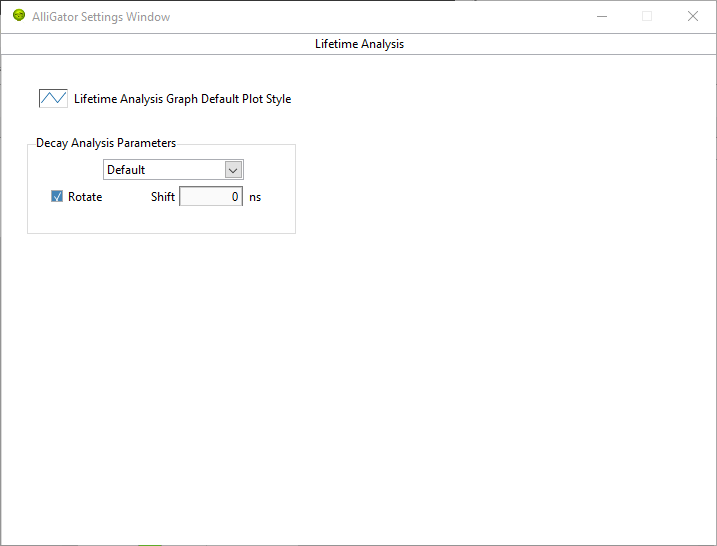
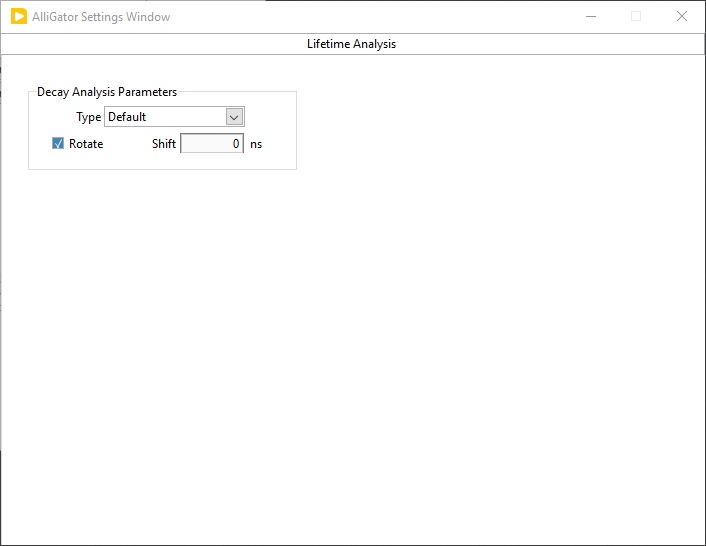
Docs update

diff --git a/docs/source/alligator-decay-fitting.rst b/docs/source/alligator-decay-fitting.rst
@@ -13,7 +13,7 @@ of fluorescence decay fitting:
   being output as maps (see :ref:`alligator-decay-fit-parameters-map-panel`)
 * Series analysis of a ROI in the image source can be done one ROI at a 
   time (the same ROI is used throughout the series), or a list of ROIs can be 
-  used, in dataset in the series using one of the ROI in the list (in the order 
+  used, one dataset in the series using one of the ROI in the list (in the order 
   they appear in the list). In both cases, selected parameters are output as 
   individual plots (one plot per parameter, one point per dataset).
 
@@ -34,7 +34,7 @@ section in the :ref:`alligator-decay-preprocessing` manual page).
 
 The fit model convolution with the IRF is compared with an interpolation of the 
 decay at the time points over which the IRF is defined. This means that a 
-fited decay does not need to cover the whole laser period.
+fitted decay does not need to cover the whole laser period.
 
 In the case of multiple ROIs fits, this single IRF decay can be replaced by 
 multiple ROIs IRFs as discussed below in the corresponding section on multiple 
@@ -45,6 +45,8 @@ If none is defined (or if none is desired, use the ``IRF/Reference Plot:Clear
 IRF/Reference Plot`` menu item of the *Decay Graph* to clear it), the 
 convolution step is skipped during fitting.
 
+.. _alligator-single-decay-fitting:
+
 Single decay fit
 ++++++++++++++++
 
@@ -53,12 +55,12 @@ Overview
 
 A single plot can be fitted by a model function convolved with the selected IRF 
 by right-clicking on its legend (or close to it in the graph) and selecting 
-``Fit Decay``. The options specifying the type of fit and the constraints used 
-are defined in the **Settings:Fluorescence Decay:Fit Options** and 
-**Settings:Fluorescence Decay:Fit Parameters** panels respectively.
+``Nonlinear Least Square Fit:IRF o N-Exp``. The options specifying the type of fit and the constraints used 
+are defined in the :ref:`alligator-settings-fluorescence-decay-fit-options` and 
+:ref:`alligator-settings-fluorescence-decay-fit-parameters` panels respectively.
 
 Several fit options, discussed below, are available in the 
-**Settings:Fluorescence Decay:Fit Options** panel:
+:ref:`alligator-settings-fluorescence-decay-fit-options` panel:
 
 - Model
 - Fitting Algorithm
@@ -77,28 +79,31 @@ Several fit options, discussed below, are available in the
 - Offset Resolution
 
 Parameter constraints, guess parameters and whether or not to display the 
-output as plots are managed in the **Settings:Fluorescence Decay:Fit 
-Parameters** panel
+output as plots are managed in the 
+:ref:`alligator-settings-fluorescence-decay-fit-parameters` panel
 
 - Fit with constraints applied on individual parameters is handled by an array 
-  of Fit Parameter Constraints specifying the:
+  of *Fit Parameter Constraints* specifying the:
 
   + Parameter
   + Min & Max Value
-  + whether or not it is a Global parameter (applicable in case of multiple 
-    fits only)
-  + whether the constraint is used or not
-- Guess parameters can be provided in the corresponding array by selecting the 
+  + whether or not it is a Global parameter (currently unused)
+  + whether or not the constraint is used
+
+- *Guess Parameters* can be provided in the corresponding array by selecting the 
   parameter name and providing the guess value. Additionally, the way these 
-  parameter guesses are used (or not) can be dedined via the Options pull-down 
+  parameter guesses are used (or not) can be defined via the *Options* pull-down 
   list:
 
   + Numerically Estimated
   + User-provided
   + User-provided (normalized)
   + Last valid fitted parameters
-- The Displayed Fit Parameters array only applies to series analysis and 
+
+- The *Displayed Fit Parameters* array only applies to series analysis and 
   will be discussed in that context in a later section.
+
+.. _alligator-fit-options:
 
 Fit Options
 -----------
@@ -203,6 +208,8 @@ Fit Options
   minimal value for the cost function. A small value of this parameter may 
   increase the precision of that parameter but will result in a longer fit 
   duration.
+
+.. _alligator-fit-parameters:
 
 Fit Parameters
 --------------

diff --git a/docs/source/alligator-settings-window.rst b/docs/source/alligator-settings-window.rst
@@ -273,6 +273,16 @@ The options in this panel are discussed in the
 Fluorescence Decay
 ------------------
 
+The **Fluorescence Decay** tab is divided into 5 sub-panels:
+
+- **Decay Pre-Processing**
+- **Advanced Analysis**
+- **Fit Options**
+- **Fit Parameters**
+- **Styles**
+
+described below.
+
 .. _alligator-settings-fluorescence-decay-preprocessing:
 
 Decay Pre-Processing
@@ -400,6 +410,10 @@ based on the measured decay and the IRF.
 Fit Options
 +++++++++++
 
+The parameters accessible on this panel are discussed in the 
+:ref:`alligator-fit-parameters` section of the :ref:`alligator-decay-fitting` 
+page of the manual.
+
 .. image:: images/AlliGator-Settings-Decay-Fit-Options.png
    :align: center
 
@@ -407,6 +421,10 @@ Fit Options
 
 Fit Parameters
 ++++++++++++++
+
+The parameters accessible on this panel are discussed in the 
+:ref:`alligator-fit-parameters` section of the :ref:`alligator-decay-fitting` 
+page of the manual.
 
 .. image:: images/AlliGator-Settings-Decay-Fit-Parameters.png
    :align: center
@@ -419,6 +437,11 @@ Styles
 .. image:: images/AlliGator-Settings-Decay-Styles.png
    :align: center
 
+- *Show Last Decay Only*: if checked off, hides all other plots in the *Decay 
+  Graph* when adding a new plot.
+- *Decay Graph Color Array*: colors used for the decay itself, its fit and its 
+  residuals.
+
 .. _alligator-settings-fluorescence-decay-statistics:
 
 Fluorescence Decay Statistics
@@ -426,6 +449,16 @@ Fluorescence Decay Statistics
 
 .. image:: images/AlliGator-Settings-Decay-Statistics.png
    :align: center
+
+- *Reject Low Decay Peak Pixels*: if checked off, rejects decays whose peak 
+  values are strictly smaller than *Min Peak Value*.
+- *Min Peak Value*: peak value lower rejection threshold.
+- *Reject High Decay Peak Pixels*: if checked off, rejects decays whose peak 
+  values are strictly larger than *Max Peak Value*.
+- *Max Peak Value*: peak value upper rejection threshold.
+
+These criteria are applied after the min and max total intensity constraints 
+defined in the **Settings:Pixel Processing** panel.
 
 .. _alligator-settings-time-traces:
 
@@ -503,6 +536,17 @@ Lifetime Analysis
 
 .. image:: images/AlliGator-Settings-Lifetime-Analysis.png
    :align: center
+
+- *Decay Analysis Parameters*
+
+  + *Type*: ``Default``/``CDF``/``Threshold``/``Cross-Correlation`` selects 
+    which lifetime-related quantity is computed when using the ``Compute Single 
+    Phasor Ratio at Mouse Location`` menu item in the *Phasor Graph*. 
+    ``Default`` corresponds to the average lifetime, while the other three 
+    options correspond to the decay offset with respect to the stored 
+    IRF/Reference Decay.
+  + *Shift*: used in the ``CFD`` case (Constant Fraction Discrimination), where 
+    a shifted inverted decay is used.
 
 .. _alligator-settings-plugins:
 
